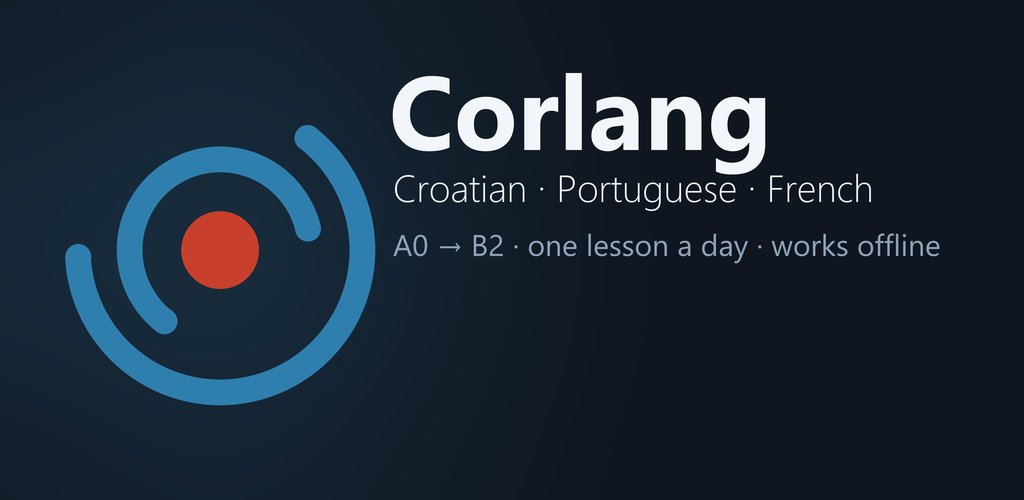
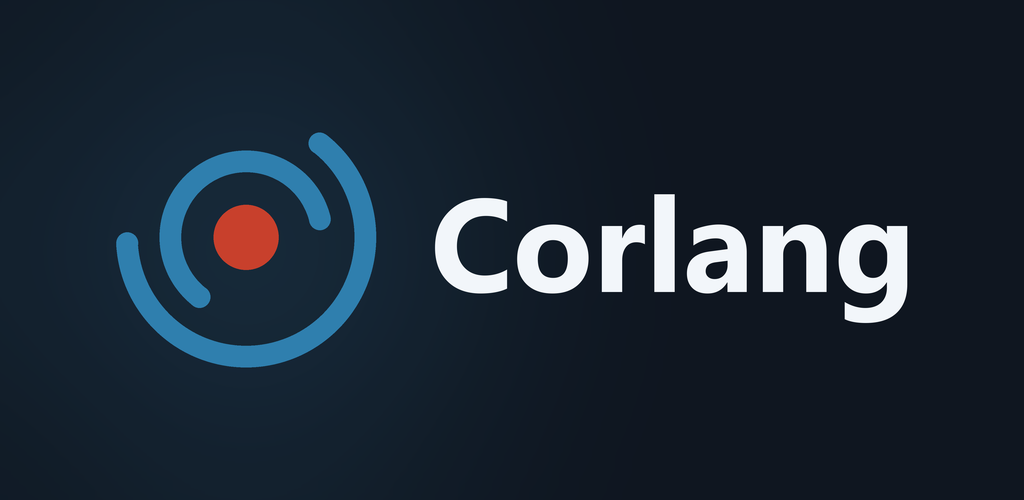
Feature graphic: the mark and the name, and nothing that has gone stale
It carried two strap lines: "Croatian, Portuguese, French" and "A0 to B2, one
lesson a day, works offline". Both were wrong by the time anyone would see them.
French is authored but hidden from content/_index.json, so the graphic advertised
a course the store cannot deliver, and neither shipped course runs past B1.

A feature graphic is also the asset Play crops and overlays its own text on, so
small type near an edge is the first thing to be lost. A centred lockup survives
that treatment; a strap line does not.

Centred by MEASURING rather than predicting. The first attempt computed positions
from `72 * unit` and from a textbbox taken at one anchor while drawing at
another, and produced a mark low-left with the word floating high-right. Drawing
both onto a transparent layer and asking Pillow for the real bounding box drops
every assumption about font metrics and mark geometry at once. Result: margins
116/116 and 132/132, one pixel off centre on each axis from rounding, content in
the central 77% of the width.

Claude-Session: https://claude.ai/code/session_018Gn2QEio15X2vHfn8jvY5X

Changed region(s): [[0.0625, 0.15, 0.9375, 0.81], [0.75, 0.36, 0.8438, 0.42]]

diff --git a/docs/store-assets/make_assets.py b/docs/store-assets/make_assets.py
@@ -75,25 +75,49 @@ def _mask_from(g):
 
 # --------------------------------------------------------- feature graphic
 def feature(path):
+    """
+    The mark and the wordmark, centred, on the brand ground.
+
+    It used to carry two strap lines: "Croatian, Portuguese, French" and "A0 to B2, one lesson a
+    day, works offline". Both had gone stale. French is authored but hidden from
+    content/_index.json, so the graphic advertised a course the store could not deliver, and
+    neither shipped course runs past B1. A feature graphic is also the asset Play crops and
+    overlays its own text on, so small type near an edge is the first thing lost. A centred
+    lockup survives that; a strap line does not.
+
+    Centred by MEASURING, not by predicting. The first attempt computed the position from
+    `72 * unit` and a textbbox taken at one anchor while drawing at another, and produced a mark
+    low-left with the word floating high-right. Drawing both onto a transparent layer and asking
+    Pillow for the real bounding box removes every assumption about font metrics and mark
+    geometry at once.
+    """
     W, H = 1024 * SS, 500 * SS
+
+    layer = Image.new("RGBA", (W, H), (0, 0, 0, 0))
+    ld = ImageDraw.Draw(layer)
+
+    unit = (H * 0.52) / 72.0
+    f_word = ImageFont.truetype(FONT_BOLD, int(132 * SS))
+
+    # Somewhere roughly right; the exact spot does not matter, it gets re-centred below.
+    probe_cx, probe_cy = W * 0.30, H * 0.5
+    draw_mark(ld, probe_cx, probe_cy, unit)
+    mark_box = layer.getbbox()
+
+    gap = 54 * SS
+    ld.text((mark_box[2] + gap, probe_cy), "Corlang", font=f_word, fill=TEXT, anchor="lm")
+
+    box = layer.getbbox()
+    dx = int(round((W - (box[2] - box[0])) / 2 - box[0]))
+    dy = int(round((H - (box[3] - box[1])) / 2 - box[1]))
+
     img = Image.new("RGB", (W, H), BG)
-    mark_cx, mark_cy = W * 0.215, H * 0.5
-    img = ImageChops.screen(img, glow((W, H), mark_cx, mark_cy, H * 0.46, RING, 0.22))
-    d = ImageDraw.Draw(img)
-
-    unit = (H * 0.62) / 72.0
-    draw_mark(d, mark_cx, mark_cy, unit)
-
-    f_word = ImageFont.truetype(FONT_BOLD, int(104 * SS))
-    f_tag = ImageFont.truetype(FONT_LIGHT, int(38 * SS))
-    f_sub = ImageFont.truetype(FONT_REG, int(30 * SS))
-
-    x = W * 0.38
-    d.text((x, H * 0.30), "Corlang", font=f_word, fill=TEXT, anchor="ls")
-    d.text((x + 4 * SS, H * 0.30 + 52 * SS), "Croatian · Portuguese · French",
-           font=f_tag, fill=TEXT, anchor="ls")
-    d.text((x + 4 * SS, H * 0.30 + 106 * SS), "A0 → B2 · one lesson a day · works offline",
-           font=f_sub, fill=MUTED, anchor="ls")
+    img = ImageChops.screen(
+        img, glow((W, H), (mark_box[0] + mark_box[2]) / 2 + dx, H * 0.5, H * 0.44, RING, 0.20))
+    img.paste(layer.transform((W, H), Image.AFFINE, (1, 0, -dx, 0, 1, -dy),
+                              resample=Image.NEAREST),
+              (0, 0), layer.transform((W, H), Image.AFFINE, (1, 0, -dx, 0, 1, -dy),
+                                      resample=Image.NEAREST))
 
     img.resize((1024, 500), Image.LANCZOS).save(path)
     print("wrote", path)
